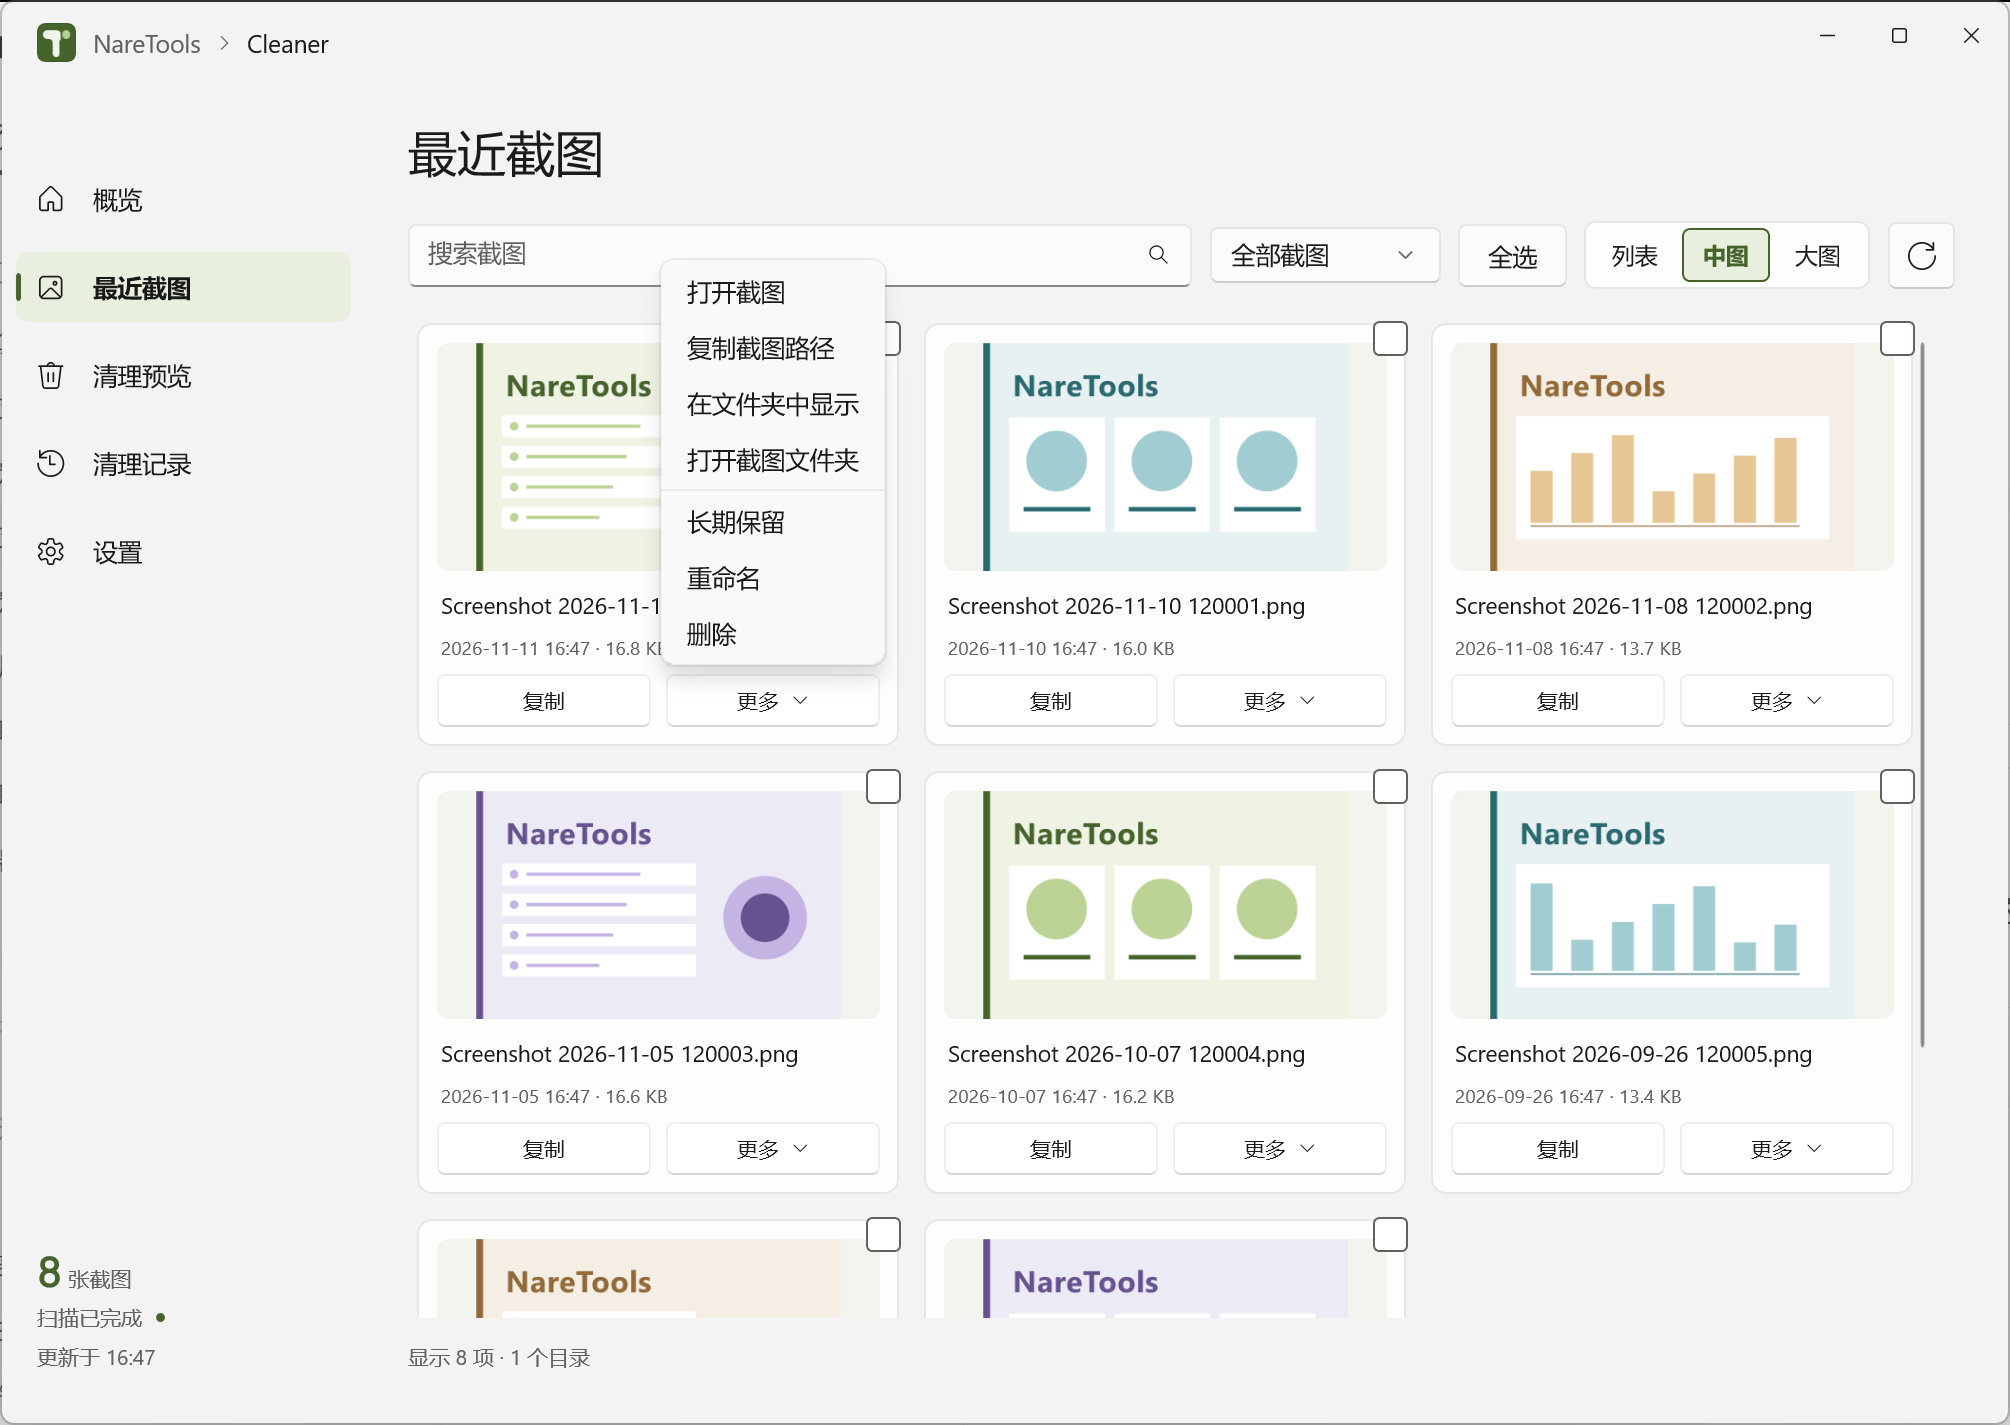
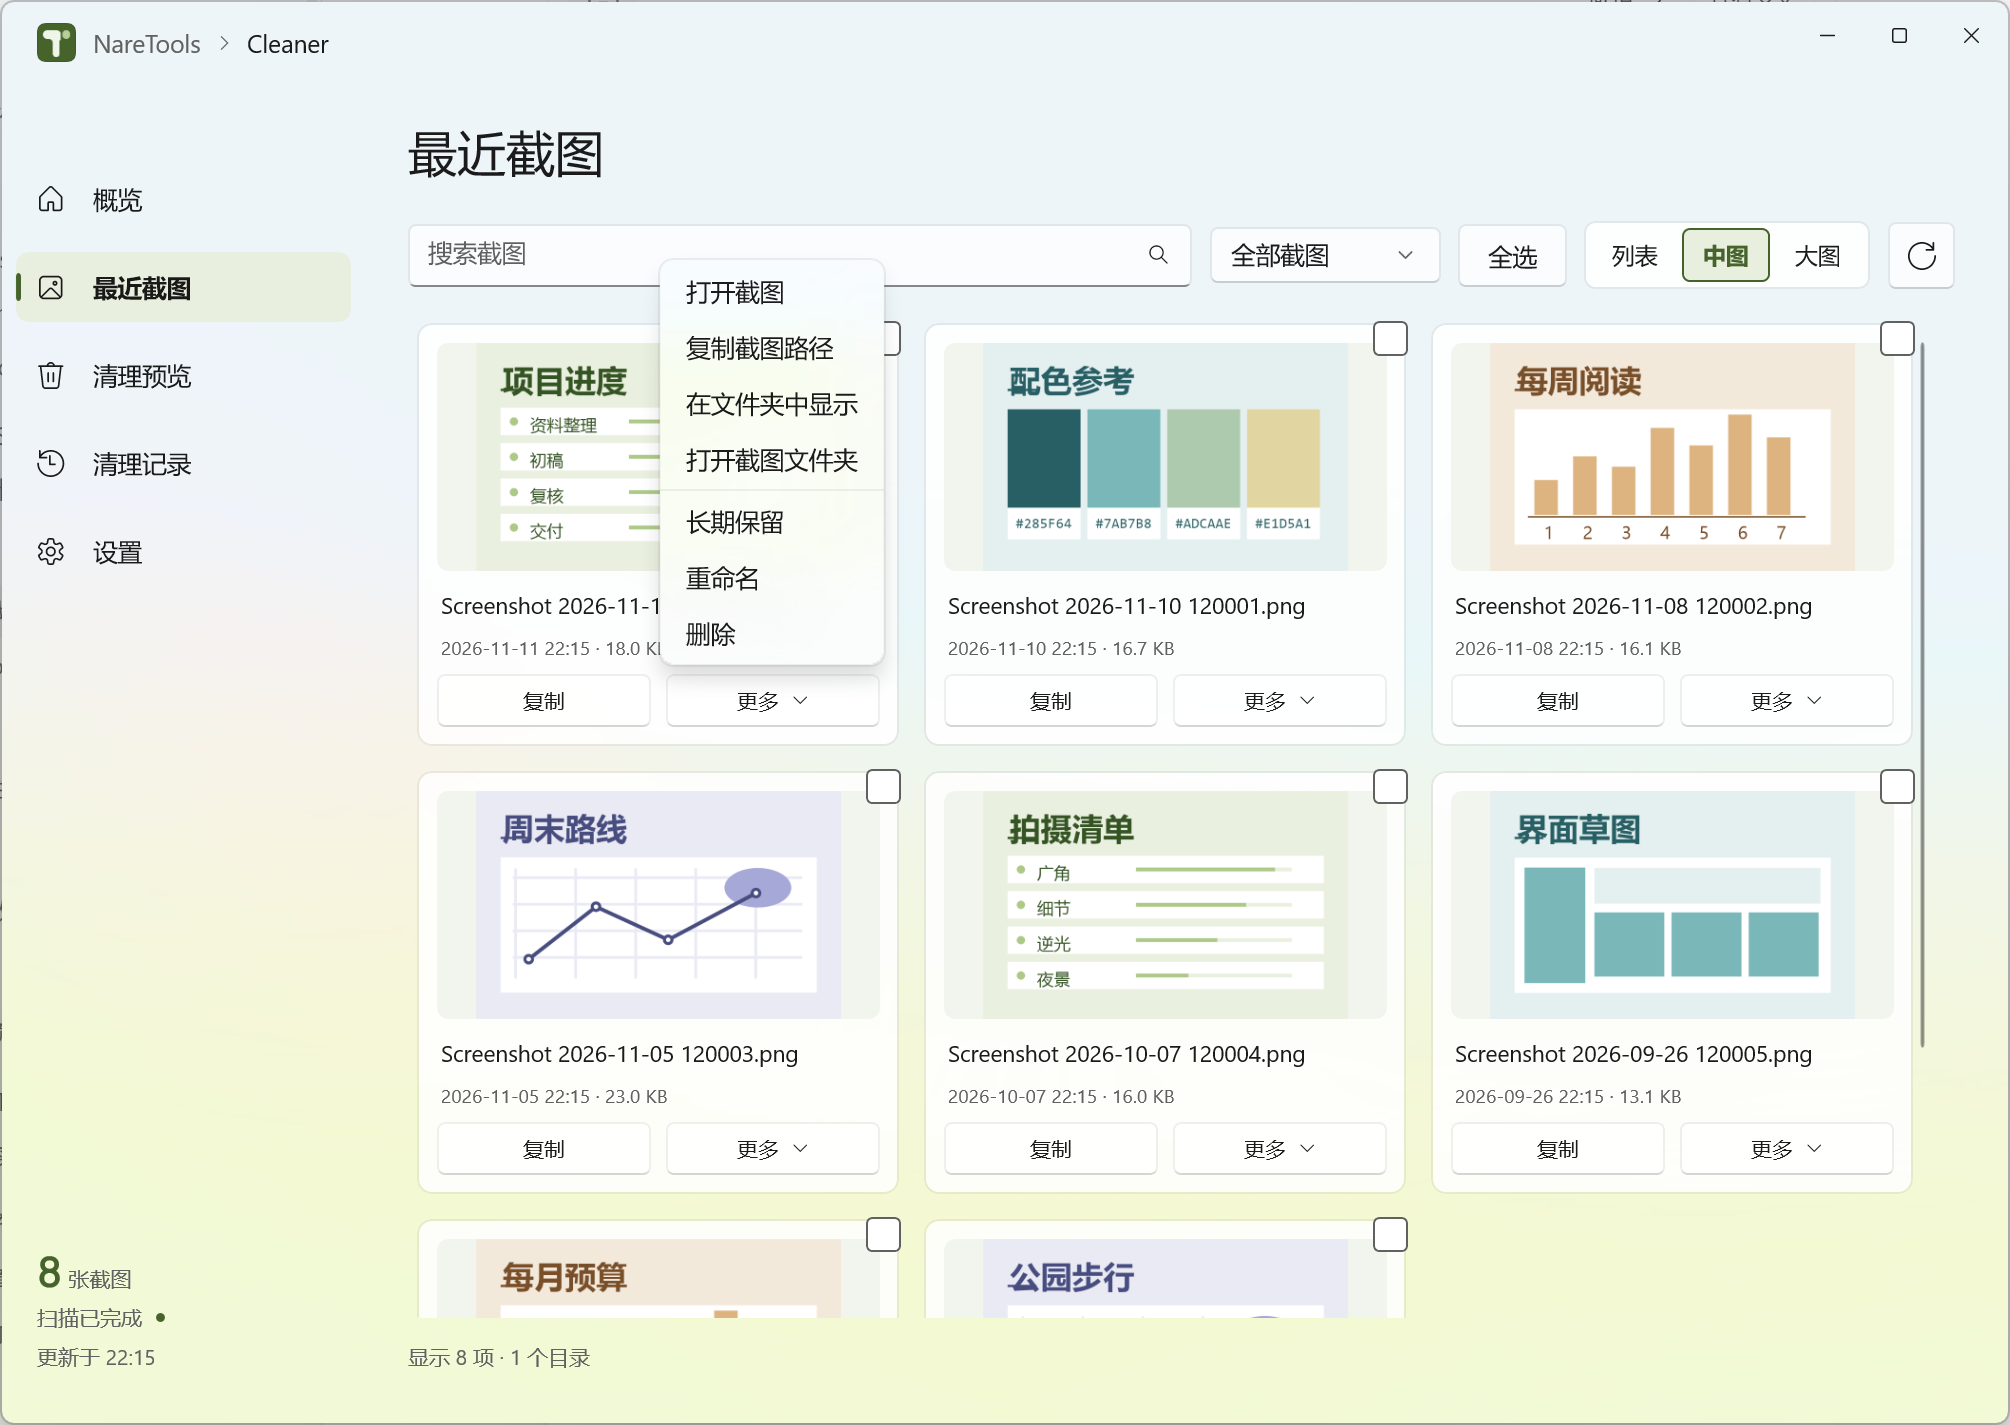
Publish Cleaner 1.1.1 download, guide and screenshots

diff --git a/README.md b/README.md
@@ -1,65 +1,44 @@
 # NareTools
 
-NareTools 是 NareTeam 的桌面工具集。当前提供 **Cleaner**：集中浏览截图、管理多个截图目录，按指定期限手动或定时清理。
+截图分散在多个文件夹时，可以在 **Cleaner** 里一起浏览。刚截的图可以直接复制或分享，想留的图可以标记为长期保留。积攒太多时，先预览哪些截图已过期，再把它们移入 Windows 回收站。
 
-[下载安装包](https://github.com/Retracar/NareTools/releases/latest) · [更新记录](Package/Windows/Cleaner/CHANGELOG.md) · [使用方法](Package/Windows/Cleaner/使用说明.md) · [Package](Package/README.md)
+[下载 Windows x64 安装包](https://github.com/Retracar/NareTools/releases/latest) · [使用说明](Package/Windows/Cleaner/使用说明.md) · [更新记录](Package/Windows/Cleaner/CHANGELOG.md)
 
-**Windows 11 22H2 或更新版本 · x64**。运行库已包含在安装包内，无需另装 .NET。
+适用于 **Windows 11 22H2 及以上 x64**，安装包已包含运行库。
 
-## 主要功能
+## 查看截图目录和保留期限
 
-| 功能 | 可以做什么 |
-| --- | --- |
-| 最近截图 | 直接查看缩略图，复制、分享、重命名和定位文件，支持多选操作。 |
-| 按期限清理 | 选择几天、几周或几个月前的截图，预览匹配文件后一次清理。 |
-| 自动清理 | 设置每 N 天／周／月执行，仅登录且插电时运行，无需后台常驻。 |
-| 多目录管理 | 同时管理多个专用截图目录，移除目录不会删除其中的文件。 |
-| 安装时检测目录 | 自动建议 Windows 截图目录，可在独立步骤中确认并添加其他目录。 |
-| 长期保留 | 将重要截图设为长期保留，使其不参与清理。 |
-| 显示与外观 | 列表、中图、大图自由切换并记忆选择，支持云母、亚克力和主题色。 |
-| 应用语言 | 支持简体中文、英语、繁体中文、韩语和日语，默认跟随系统。 |
+概览显示已管理的截图、待清理文件和当前保留期限。安装时会检测常见的 Windows 截图目录，也可以添加其他专用文件夹。
 
-删除和清理均移入 **Windows 回收站**。清理过程显示进度，并支持停止后续操作；截图不上传。
+![概览中的截图统计、保留期限和目录](docs/images/cleaner/overview.png)
 
-## 界面预览
+## 浏览和整理截图
 
-以下为 **1.1.0 正式版**的实际界面，截图内容均为专门制作的示例图片。
+在「最近截图」里用缩略图找图，也可以切换为列表。复制、分享、重命名和定位文件都从这里操作，支持多选。重要截图可以设为长期保留。
 
-### 概览
+![最近截图中的缩略图和显示方式](docs/images/cleaner/recent.png)
 
-查看截图数量、待清理大小和保留期限，从首页进入浏览或清理。
+<details>
+<summary>查看「更多」菜单</summary>
 
-![概览：截图统计、保留期限与常用入口](docs/images/cleaner/overview.png)
+![最近截图的文件操作菜单](docs/images/cleaner/file-actions.png)
 
-### 最近截图
+</details>
 
-用缩略图快速找到截图，卡片上的「复制」和「更多」提供常用操作。
+## 按时间清理
 
-![最近截图：缩略图卡片与显示方式切换](docs/images/cleaner/recent.png)
+在「清理预览」选择几天、几周或几个月前的截图，核对文件和日期后再清理。清理时会显示进度，已移入回收站的截图可以从 Windows 回收站恢复。
 
-### 文件操作
+需要定期整理时，可以在设置中开启自动清理。它由 Windows 按计划运行，仅在已登录且接通电源时执行。
 
-打开、重命名、文件夹定位、长期保留和删除集中在「更多」菜单中。
+![清理预览中的日期范围、文件状态和图片预览](docs/images/cleaner/cleanup.png)
 
-![文件操作：截图卡片的更多菜单](docs/images/cleaner/file-actions.png)
+## 安装、升级与重装
 
-### 清理预览
+- **首次安装** · 选择安装位置和快捷方式，再确认截图目录及保留期限。自动清理默认关闭。
+- **覆盖升级** · 直接运行新版安装包，已有设置会继续沿用。首次打开时查看更新内容，点击「继续」即可进入主界面。
+- **卸载后重装** · 卸载时可以保留应用数据。重装时，引导会带入保留的截图目录和期限，供你重新确认。
 
-先核对匹配文件，再按自定义时间范围清理；重要截图可单独保留。
+![覆盖升级后首次打开的更新页](docs/images/cleaner/update.png)
 
-![清理预览：文件列表、图片预览与自定义期限](docs/images/cleaner/cleanup.png)
-
-## 开始使用
-
-1. 从 [Releases](https://github.com/Retracar/NareTools/releases/latest) 下载安装包，选择安装位置及快捷方式。
-2. 确认检测到的截图目录，或添加专用目录。首次打开时选择保留期限，自动清理默认关闭。
-3. 在「最近截图」浏览与管理文件，或在「清理预览」选择范围并确认清理。
-4. 如需定时清理，在「设置」中开启计划并保存。
-
-详细操作、目录规则和卸载说明见 [使用方法](Package/Windows/Cleaner/使用说明.md)。
-
-已安装旧版时，可直接运行新版安装包覆盖升级。
-
-## 版本与分发
-
-本仓库公开安装包、更新说明、使用方法、功能截图及文件校验值。核心源码与内部开发资料保持私有。
+界面截图来自 1.1.1 实窗，展示用图片为示例文件。截图在本机处理。

diff --git a/Package/Windows/Cleaner/使用说明.md b/Package/Windows/Cleaner/使用说明.md
@@ -6,9 +6,9 @@
 
 选择安装位置，可安装至有写入权限的本地目录，包括 D 盘。桌面快捷方式和开始菜单入口分别设置。截图目录与应用安装位置相互独立。
 
-安装时会建议检测到的 Windows 截图目录，可在下一步确认或添加其他专用目录。首次打开应用后选择保留期限，自动清理默认关闭。完成引导后，再次启动直接进入应用。
+安装时会建议检测到的 Windows 截图目录，可在下一步确认或添加其他专用目录。首次打开应用后选择保留期限，自动清理默认关闭。完成引导后，日常启动直接进入应用。
 
-升级可直接运行新版安装包，沿用原安装位置和设置。若已卸载并选择保留应用数据，重新安装后可以继续使用原设置，自动清理保持关闭。安装包尚未配置代码签名。
+升级可直接运行新版安装包，沿用原安装位置和设置。升级后的第一次启动会显示更新内容，点击「继续」即可进入主界面。若卸载时保留了应用数据，重新安装后的引导会带入截图目录和保留期限，自动清理保持关闭。安装包尚未配置代码签名。
 
 ## 浏览截图
 

diff --git a/Package/README.md b/Package/README.md
@@ -2,10 +2,10 @@
 
 | 组件 | 版本 | 安装包 | 使用说明 |
 | --- | --- | --- | --- |
-| Cleaner | 1.1.0 | [Windows x64](https://github.com/Retracar/NareTools/releases/download/v1.1.0/NareTools-1.1.0-Setup-x64.exe) | [说明](Windows/Cleaner/使用说明.md) |
+| Cleaner | 1.1.1 | [Windows x64](https://github.com/Retracar/NareTools/releases/download/v1.1.1/NareTools-1.1.1-Setup-x64.exe) | [说明](Windows/Cleaner/使用说明.md) |
 
 安装文件存放在 GitHub Releases，避免把大型二进制文件写入文档仓库历史。[查看全部版本](https://github.com/Retracar/NareTools/releases)。
 
-可选择安装位置，桌面和开始菜单快捷方式分别设置。截图目录放在独立步骤。正常使用无需管理员权限；已有配置不会重复进入首次引导。
+可选择安装位置，也可分别设置桌面和开始菜单快捷方式。覆盖升级后首次打开会显示更新内容。卸载后重装会重新进入设置引导，并带入保留的截图目录和期限。
 
 校验值见[Windows Cleaner 校验值](Windows/Cleaner/SHA256SUMS.txt)，也随每个版本的发行附件提供。安装包尚未配置代码签名。

diff --git a/Package/Windows/Cleaner/CHANGELOG.md b/Package/Windows/Cleaner/CHANGELOG.md
@@ -1,5 +1,10 @@
 # 更新记录
 
+## 1.1.1
+
+- 覆盖升级后首次打开会显示一页更新内容，确认后进入主界面，沿用原有设置。
+- 卸载后重装会重新进入设置引导。选择保留的数据会用于预填截图目录和保留期限。
+
 ## 1.1.0
 
 - 安装时自动检测 Windows 截图目录，支持在独立步骤中确认或添加其他目录。
